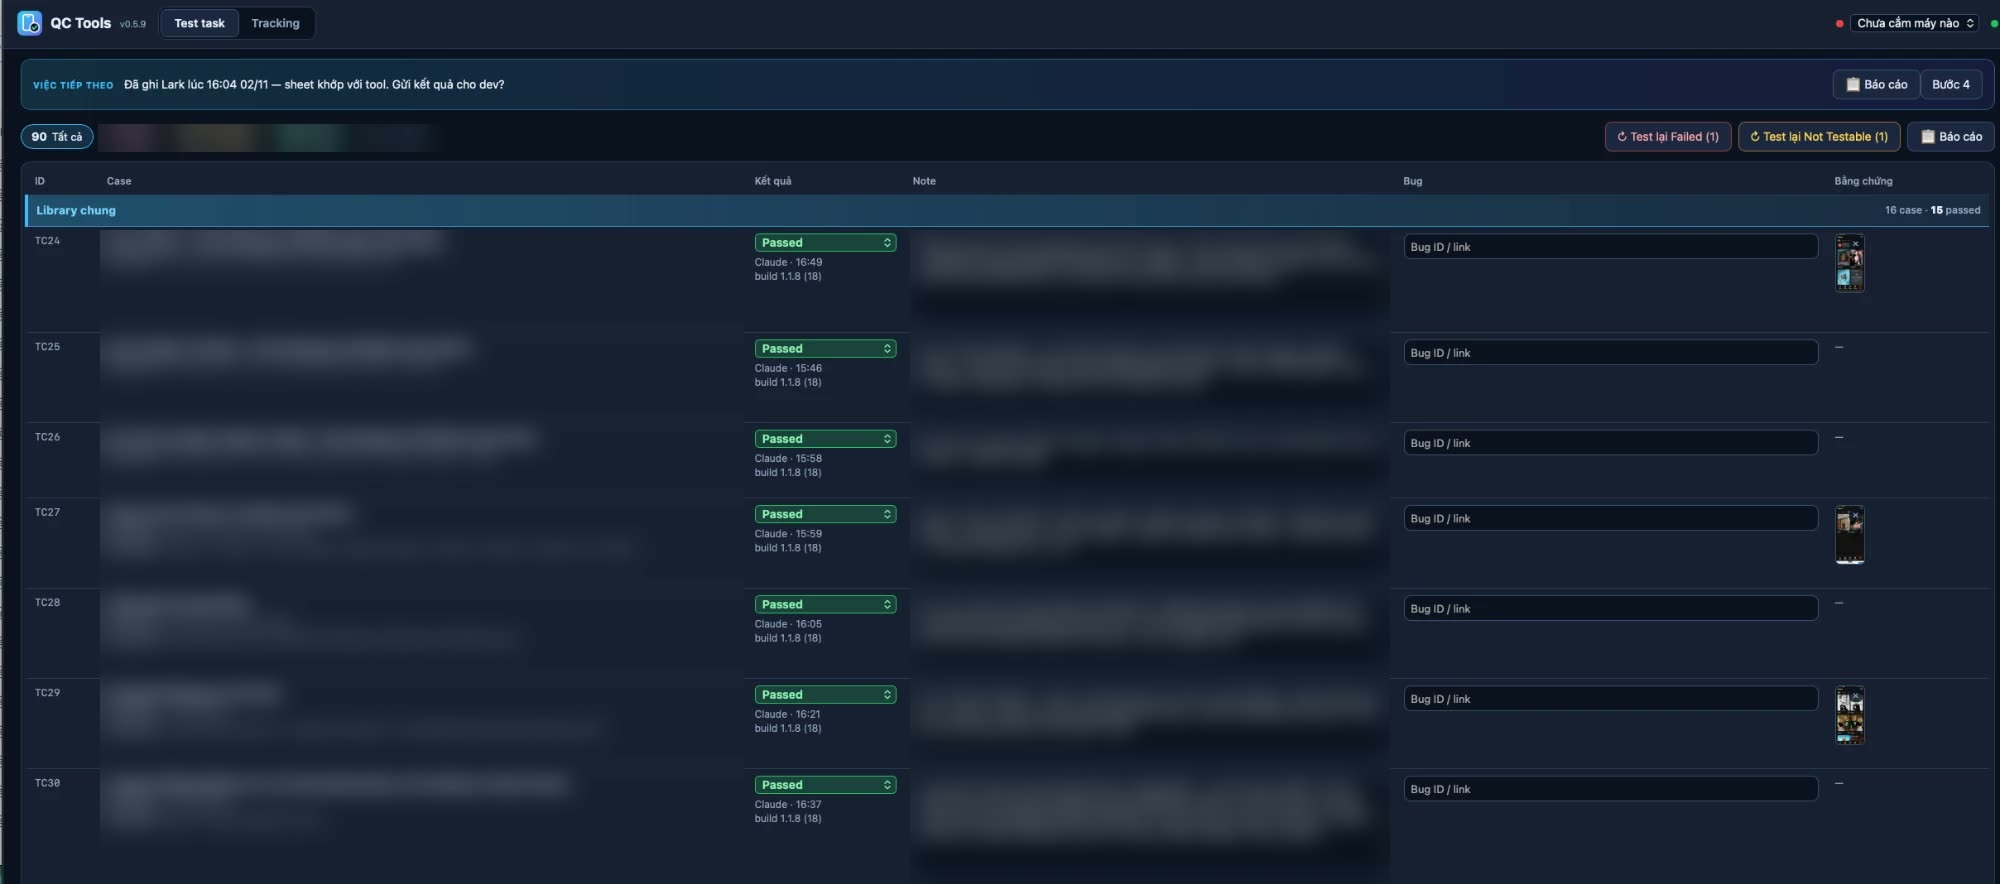
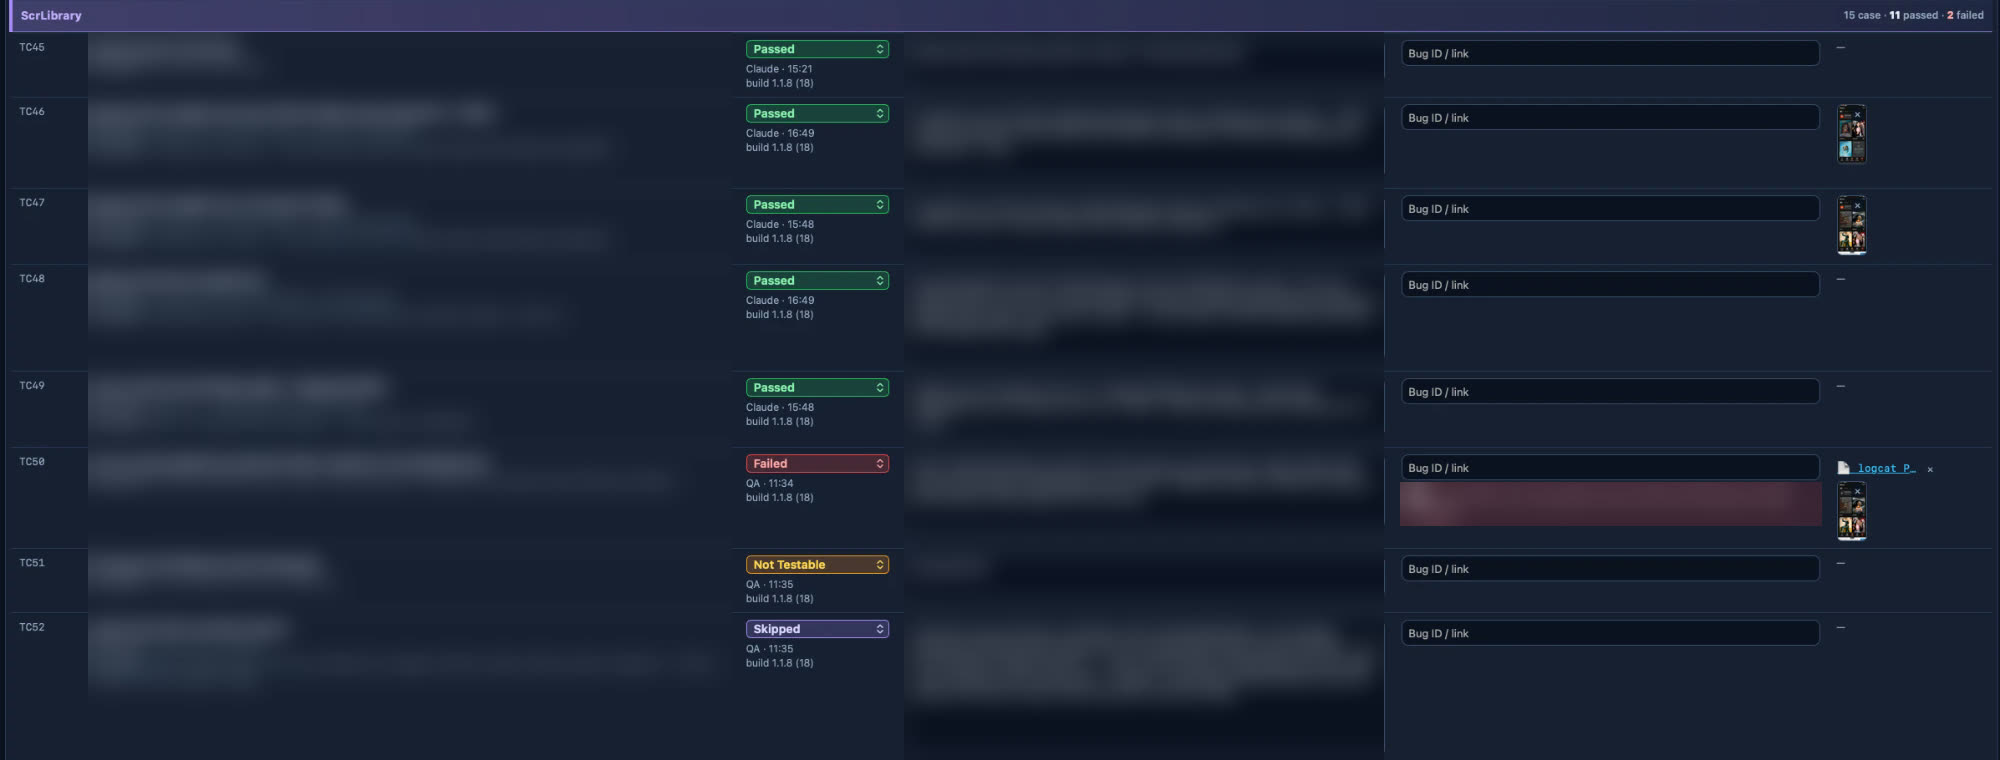
Add files via upload

diff --git a/index.html b/index.html
@@ -524,7 +524,7 @@ footer .wrap { padding-block: 26px 40px; font-family: var(--f-mono); font-size: 
                 <ol>
                   <li><span class="dot">1</span><span><b>Task</b><small>Description plus Lark and Figma links</small></span></li>
                   <li><span class="dot">2</span><span><b>Checklist</b><small>Test cases drafted, then edited and locked by QA</small></span></li>
-                  <li><span class="dot">3</span><span><b>Device run</b><small>Passed, Failed or Not Testable, with a note and evidence</small></span></li>
+                  <li><span class="dot">3</span><span><b>Device run</b><small>Passed, Failed, Not Testable or Skipped, with a note and evidence</small></span></li>
                   <li><span class="dot">4</span><span><b>Lark</b><small>Dry run first, written only after QA approves, then read back</small></span></li>
                 </ol>
               </figure>
@@ -536,8 +536,7 @@ footer .wrap { padding-block: 26px 40px; font-family: var(--f-mono); font-size: 
               <button class="qtab" type="button" role="tab" id="qt-1" aria-controls="qp-1" aria-selected="false"><b>1</b>Task</button>
               <button class="qtab" type="button" role="tab" id="qt-2" aria-controls="qp-2" aria-selected="false"><b>2</b>Checklist</button>
               <button class="qtab" type="button" role="tab" id="qt-3" aria-controls="qp-3" aria-selected="false"><b>3</b>Results</button>
-              <button class="qtab" type="button" role="tab" id="qt-4" aria-controls="qp-4" aria-selected="false"><b>4</b>Evidence</button>
-              <button class="qtab" type="button" role="tab" id="qt-5" aria-controls="qp-5" aria-selected="false"><b>5</b>Tracking</button>
+              <button class="qtab" type="button" role="tab" id="qt-4" aria-controls="qp-4" aria-selected="false"><b>4</b>Tracking</button>
             </div>
             <div class="qpanel" id="qp-1" role="tabpanel" aria-labelledby="qt-1">
               <div class="shot"><div class="shot-scroll"><img src="qc-tools/1-task.jpg" width="2000" height="693" loading="lazy" alt="QC Tools task page: description form and four progress steps"></div></div>
@@ -548,16 +547,12 @@ footer .wrap { padding-block: 26px 40px; font-family: var(--f-mono); font-size: 
               <p class="caption">QA edits the test cases and locks them. The AI tests against this locked version; changing a case means unlocking it first. <a href="qc-tools/2-checklist.jpg" target="_blank" rel="noopener">Open full size ↗</a></p>
             </div>
             <div class="qpanel" id="qp-3" role="tabpanel" aria-labelledby="qt-3">
-              <div class="shot"><div class="shot-scroll"><img src="qc-tools/3-results.jpg" width="2000" height="885" loading="lazy" alt="Results table showing each case's result, who ran it, the time and the build"></div></div>
-              <p class="caption">One real Android task with 90 cases. Each case records its result, who ran it (Claude or QA), the time and the build. Failed and Not Testable cases can be rerun on their own. <a href="qc-tools/3-results.jpg" target="_blank" rel="noopener">Open full size ↗</a></p>
+              <div class="shot"><div class="shot-scroll"><img src="qc-tools/3-results.jpg" width="2000" height="760" loading="lazy" alt="Results from one section of a task: rows marked Passed, Failed, Not Testable and Skipped, each with who ran it, the time, the build and evidence"></div></div>
+              <p class="caption">One section of a real Android task with 90 cases, showing every result type: Passed, Failed, Not Testable and Skipped. Each case records who ran it (Claude or QA), the time and the build, plus a note, a bug reference and evidence such as screenshots or logcat files. <a href="qc-tools/3-results.jpg" target="_blank" rel="noopener">Open full size ↗</a></p>
             </div>
             <div class="qpanel" id="qp-4" role="tabpanel" aria-labelledby="qt-4">
-              <div class="shot"><div class="shot-scroll"><img src="qc-tools/4-evidence.jpg" width="2000" height="240" loading="lazy" alt="Three result rows with notes, a bug reference and screenshots"></div></div>
-              <p class="caption">Selected rows from the same task. A result can carry a note, a bug reference and screenshots or logs. <a href="qc-tools/4-evidence.jpg" target="_blank" rel="noopener">Open full size ↗</a></p>
-            </div>
-            <div class="qpanel" id="qp-5" role="tabpanel" aria-labelledby="qt-5">
-              <div class="shot"><div class="shot-scroll"><img src="qc-tools/5-tracking.jpg" width="1400" height="872" loading="lazy" alt="Tracking dashboard: 323 spec rows, 8 passed, 2 failed, with event rows matched to the spec"></div></div>
-              <p class="caption">An earlier version, then called Auto Tracking Test, of what is now the Tracking area. In this recorded session 10 of 323 spec rows had been reached: 8 pass, and 2 fail because <code>app_open_from</code> sent <code>open_from=default</code>, which the spec does not allow. The other 313 rows stayed not tested. <a href="qc-tools/5-tracking.jpg" target="_blank" rel="noopener">Open full size ↗</a></p>
+              <div class="shot"><div class="shot-scroll"><img src="qc-tools/4-tracking.jpg" width="1400" height="872" loading="lazy" alt="Tracking dashboard: 323 spec rows, 8 passed, 2 failed, with event rows matched to the spec"></div></div>
+              <p class="caption">An earlier version, then called Auto Tracking Test, of what is now the Tracking area. In this recorded session 10 of 323 spec rows had been reached: 8 pass, and 2 fail because <code>app_open_from</code> sent <code>open_from=default</code>, which the spec does not allow. The other 313 rows stayed not tested. <a href="qc-tools/4-tracking.jpg" target="_blank" rel="noopener">Open full size ↗</a></p>
             </div>
           </div>
           <div class="block demo-block">
